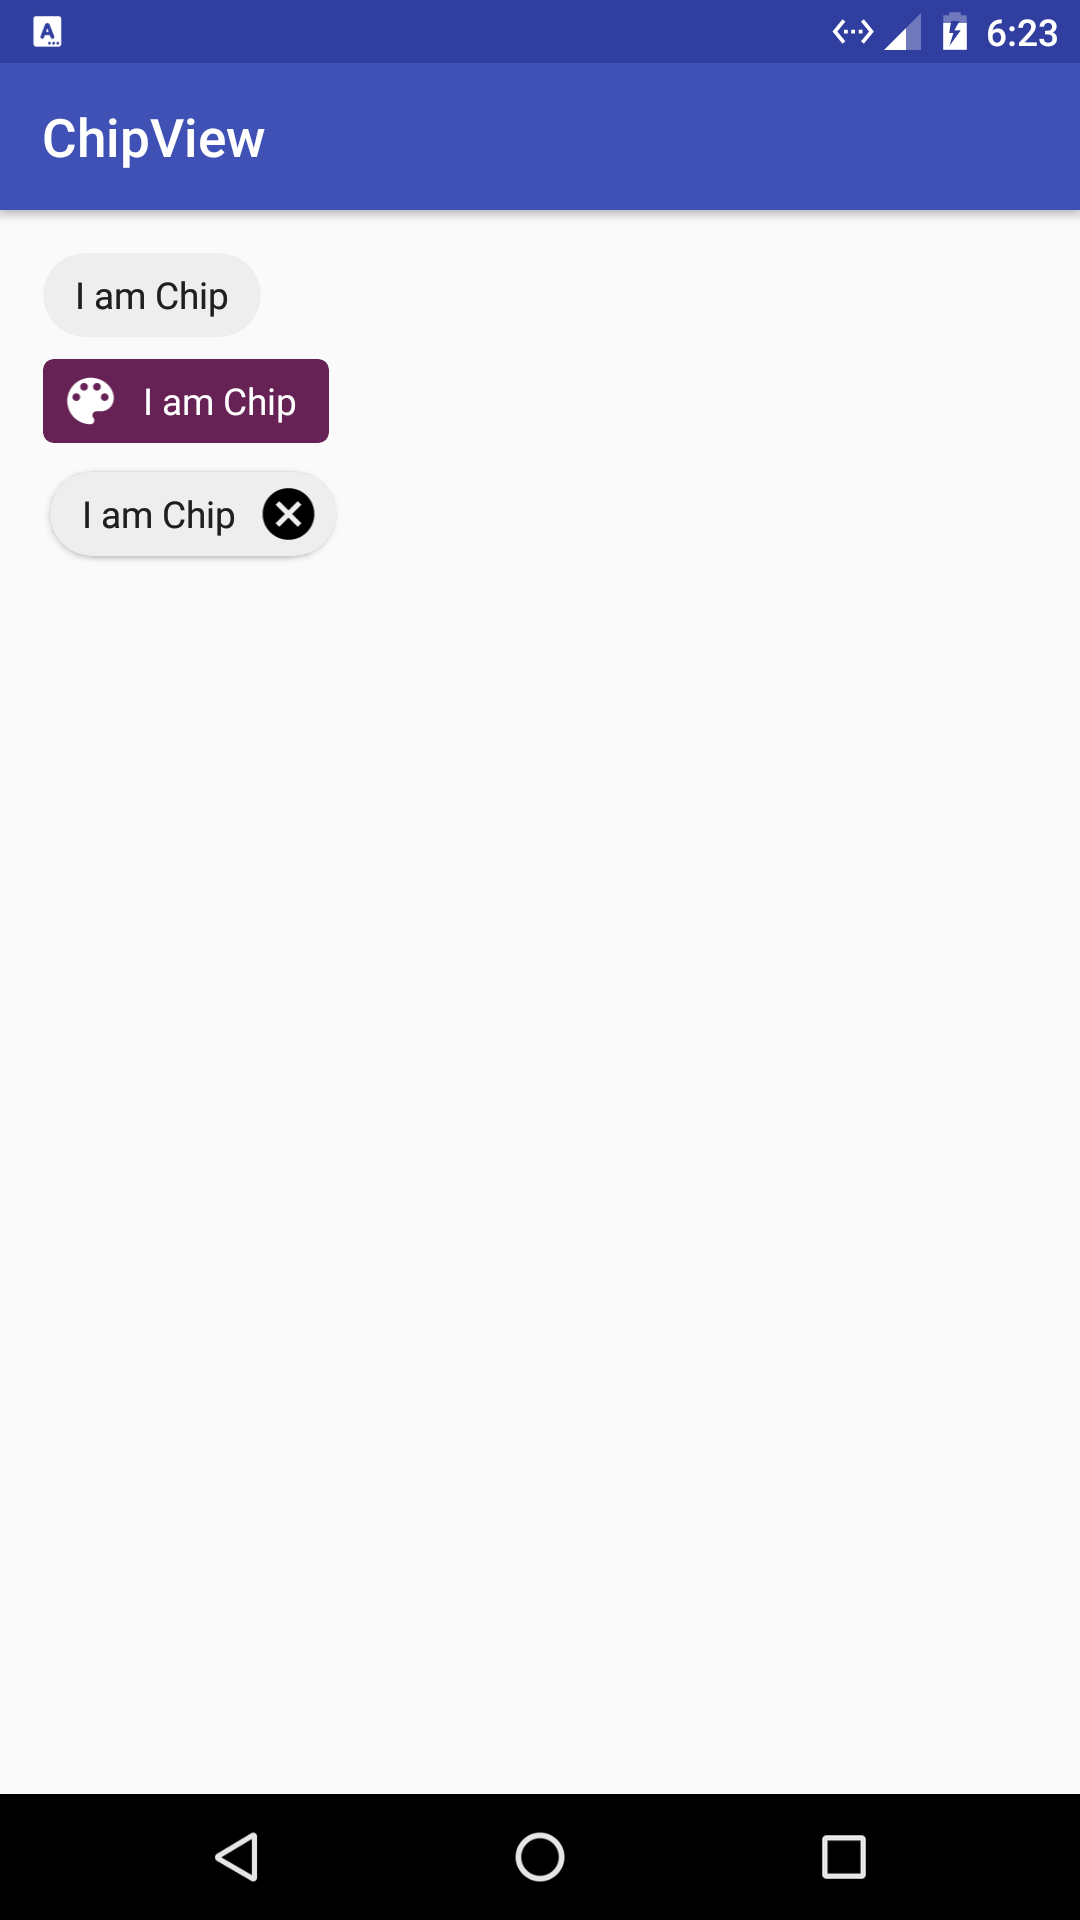
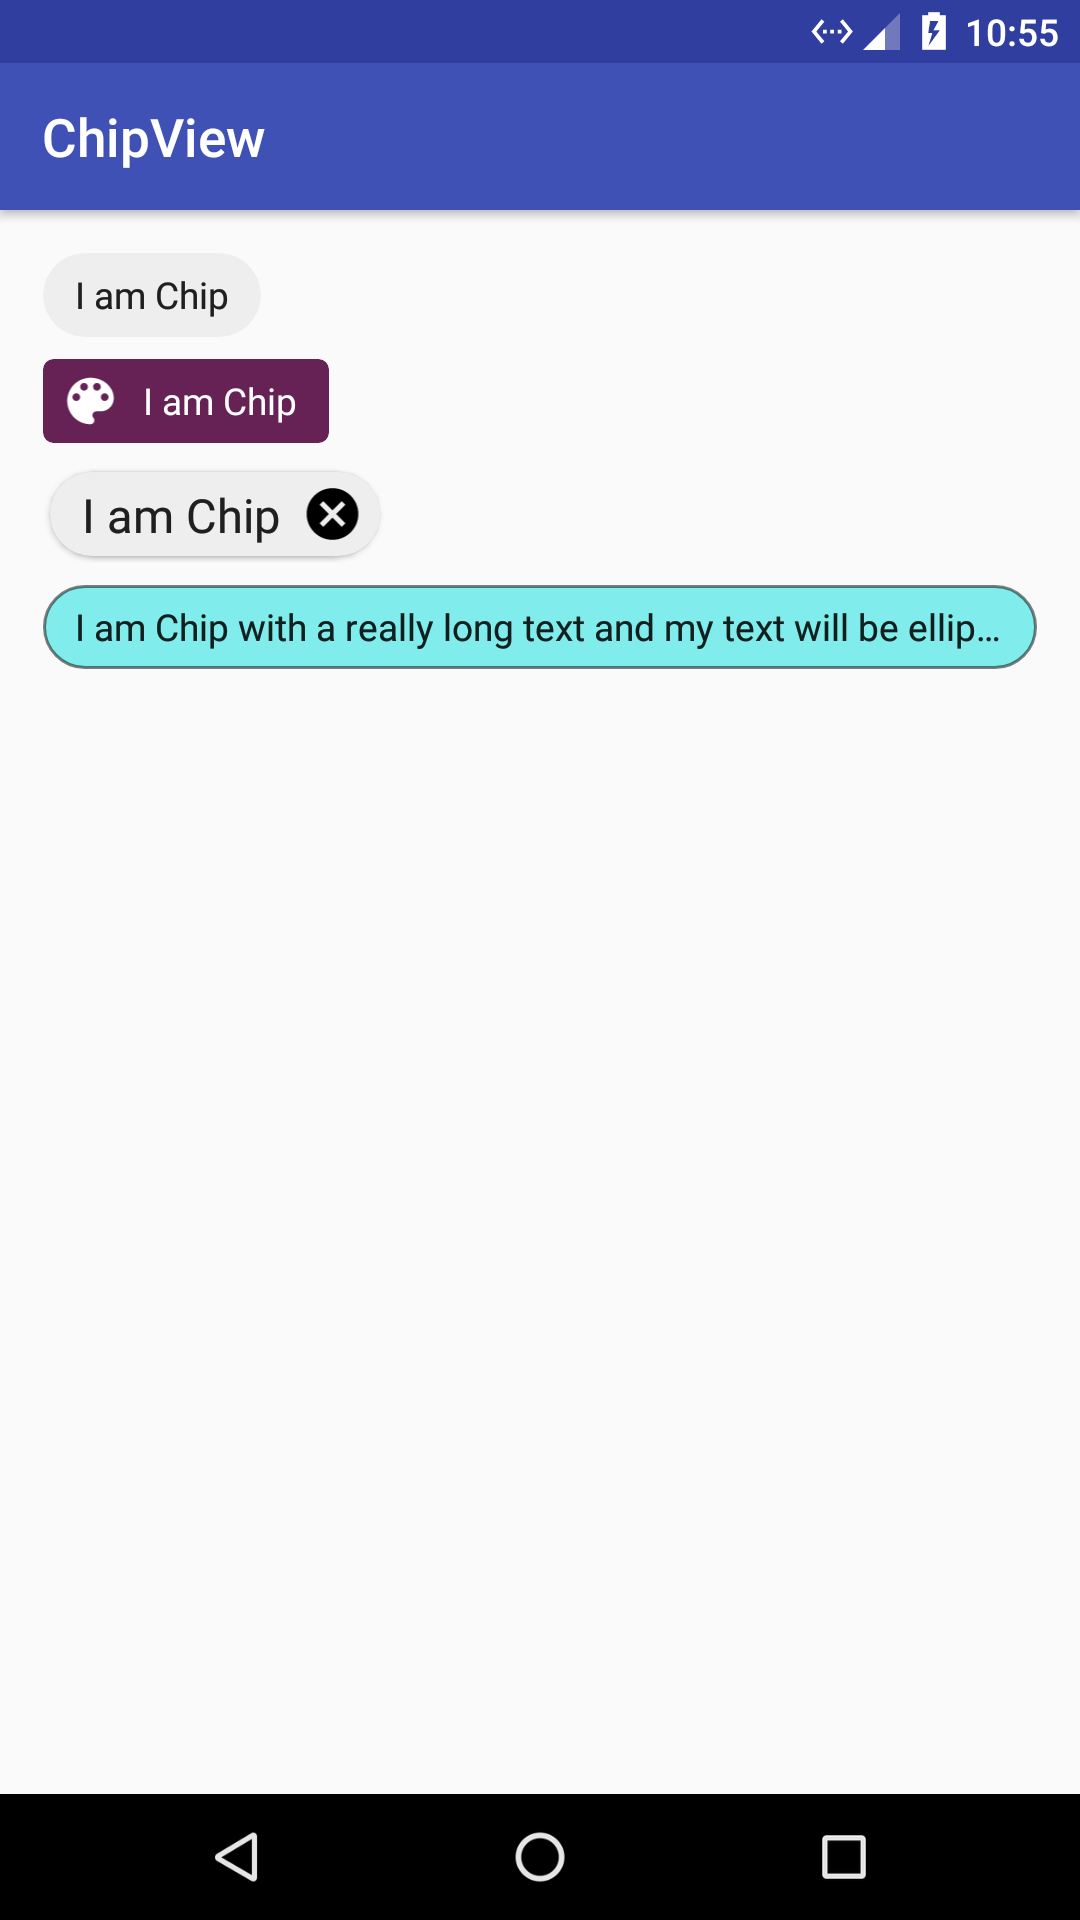
Allow textSize change. Improve clickable chip foreground. Update preview

Changed region(s): [[0.0306, 0.25, 0.9778, 0.375], [0.7639, 0.0, 0.9778, 0.0312], [0.0306, 0.0, 0.0611, 0.0312]]

diff --git a/library/src/main/kotlin/com/jahirfiquitiva/chip/ChipView.kt b/library/src/main/kotlin/com/jahirfiquitiva/chip/ChipView.kt
@@ -18,9 +18,12 @@ package com.jahirfiquitiva.chip
 import android.content.Context
 import android.content.res.ColorStateList
 import android.graphics.Bitmap
+import android.graphics.Color
+import android.graphics.PorterDuff
 import android.graphics.drawable.Drawable
 import android.graphics.drawable.GradientDrawable
 import android.graphics.drawable.Icon
+import android.graphics.drawable.RippleDrawable
 import android.os.Build
 import android.support.annotation.CallSuper
 import android.support.annotation.ColorInt
@@ -31,6 +34,7 @@ import android.support.annotation.StringRes
 import android.support.v4.content.ContextCompat
 import android.support.v7.widget.CardView
 import android.util.AttributeSet
+import android.util.TypedValue
 import android.view.LayoutInflater
 import android.view.View
 import android.widget.ImageView
@@ -53,6 +57,12 @@ open class ChipView : LinearLayout {
             textView?.text = value
         }
     
+    var textSize: Float
+        get() = textView?.textSize ?: 0.0F
+        set(value) {
+            textView?.textSize = value
+        }
+    
     var radius: Float
         get() = cardView?.radius ?: 0.0F
         set(value) {
@@ -60,8 +70,8 @@ open class ChipView : LinearLayout {
         }
     
     @ColorInt
-    var bgColor: Int = 0
-        private set(value) {
+    private var bgColor: Int = 0
+        set(value) {
             field = value
             internalSetBackground()
         }
@@ -104,6 +114,11 @@ open class ChipView : LinearLayout {
         val styles = context.obtainStyledAttributes(attrs, R.styleable.ChipView, 0, 0)
         try {
             text = styles.getString(R.styleable.ChipView_chipText) ?: ""
+            
+            val txtSize = styles.getDimensionPixelSize(R.styleable.ChipView_chipTextSize, 0)
+            if (txtSize > 0)
+                setTextSize(TypedValue.COMPLEX_UNIT_PX, txtSize.toFloat())
+            
             setTextColor(
                 styles.getColor(
                     R.styleable.ChipView_chipTextColor,
@@ -157,6 +172,12 @@ open class ChipView : LinearLayout {
     }
     
     @CallSuper
+    open fun setTextSize(unit: Int, size: Float) {
+        textSize = size
+        textView?.setTextSize(unit, size)
+    }
+    
+    @CallSuper
     open fun setIcon(@DrawableRes drawable: Int) {
         setIcon(ContextCompat.getDrawable(context, drawable))
     }
@@ -200,6 +221,17 @@ open class ChipView : LinearLayout {
         actionIconView?.setImageIcon(actionIcon)
     }
     
+    override fun getBackground(): Drawable? = cardView?.background
+    
+    @ColorInt
+    fun getBackgroundColor(): Int = bgColor
+    
+    @RequiresApi(Build.VERSION_CODES.LOLLIPOP)
+    override fun getBackgroundTintList(): ColorStateList? = cardView?.backgroundTintList
+    
+    @RequiresApi(Build.VERSION_CODES.LOLLIPOP)
+    override fun getBackgroundTintMode(): PorterDuff.Mode? = cardView?.backgroundTintMode
+    
     @CallSuper
     open fun setBackgroundColorFromRes(@ColorRes color: Int) {
         setBackgroundColor(ContextCompat.getColor(context, color))
@@ -227,15 +259,43 @@ open class ChipView : LinearLayout {
     }
     
     private fun internalSetBackground() {
-        if (strokeWidth > 0) {
-            cardView?.background = GradientDrawable().apply {
+        val fgResId: Int = try {
+            val attrs = intArrayOf(R.attr.selectableItemBackground)
+            val typedArray = context.obtainStyledAttributes(attrs)
+            val fgRes = typedArray?.getResourceId(0, 0) ?: 0
+            typedArray?.recycle()
+            fgRes
+        } catch (ignored: Exception) {
+            0
+        }
+        
+        val bgDrawable: Drawable? = if (strokeWidth > 0) {
+            GradientDrawable().apply {
                 shape = GradientDrawable.RECTANGLE
                 cornerRadii =
                     floatArrayOf(radius, radius, radius, radius, radius, radius, radius, radius)
                 setColor(bgColor)
                 setStroke(strokeWidth, strokeColor)
             }
-        } else cardView?.setCardBackgroundColor(bgColor)
+        } else cardView?.background
+        
+        @ColorInt
+        val fgColor: Int = if (bgColor.isColorDark()) bgColor.lighten() else bgColor.darken()
+        
+        val fgDrawable: Drawable? = when {
+            Build.VERSION.SDK_INT >= Build.VERSION_CODES.LOLLIPOP ->
+                RippleDrawable(ColorStateList.valueOf(fgColor), null, bgDrawable)
+            fgResId != 0 -> ContextCompat.getDrawable(context, fgResId)
+            else -> null
+        }
+        
+        if (strokeWidth > 0) {
+            cardView?.setCardBackgroundColor(Color.TRANSPARENT)
+            cardView?.background = bgDrawable
+        } else {
+            cardView?.setCardBackgroundColor(bgColor)
+        }
+        cardView?.foreground = fgDrawable
     }
     
     @CallSuper

diff --git a/library/src/main/kotlin/com/jahirfiquitiva/chip/Extensions.kt b/library/src/main/kotlin/com/jahirfiquitiva/chip/Extensions.kt
@@ -16,6 +16,14 @@
 package com.jahirfiquitiva.chip
 
 import android.content.res.Resources
+import android.graphics.Color
+import android.support.annotation.ColorInt
+import android.support.annotation.FloatRange
+
+/**
+ * Created by Allan Wang
+ * Taken from his awesome library: KAU (https://github.com/AllanWang/KAU/)
+ */
 
 internal inline val Float.dpToPx: Float
     get() = this * Resources.getSystem().displayMetrics.density
@@ -23,20 +31,26 @@ internal inline val Float.dpToPx: Float
 internal inline val Int.dpToPx: Int
     get() = toFloat().dpToPx.toInt()
 
-internal inline val Float.pxToDp: Float
-    get() = this / Resources.getSystem().displayMetrics.density
+internal fun Int.isColorDark(minDarkness: Float = 0.6F): Boolean =
+    ((0.299 * Color.red(this) + 0.587 * Color.green(this) + 0.114 * Color.blue(
+        this)) / 255.0) < minDarkness
 
-internal inline val Int.pxToDp: Int
-    get() = toFloat().pxToDp.toInt()
+@ColorInt
+internal fun Int.lighten(
+    @FloatRange(from = 0.0, to = 1.0)
+    factor: Float = 0.25F
+                        ): Int {
+    val (red, green, blue) = intArrayOf(Color.red(this), Color.green(this), Color.blue(this))
+        .map { (it * (1f - factor) + 255f * factor).toInt() }
+    return Color.argb(Color.alpha(this), red, green, blue)
+}
 
-internal inline val Float.dpToSp: Float
-    get() = this * Resources.getSystem().displayMetrics.scaledDensity
-
-internal inline val Int.dpToSp: Int
-    get() = toFloat().dpToSp.toInt()
-
-internal inline val Float.spToDp: Float
-    get() = this / Resources.getSystem().displayMetrics.scaledDensity
-
-internal inline val Int.spToDp: Int
-    get() = toFloat().spToDp.toInt()
+@ColorInt
+internal fun Int.darken(
+    @FloatRange(from = 0.0, to = 1.0)
+    factor: Float = 0.25F
+                       ): Int {
+    val (red, green, blue) = intArrayOf(Color.red(this), Color.green(this), Color.blue(this))
+        .map { (it * (1f - factor)).toInt() }
+    return Color.argb(Color.alpha(this), red, green, blue)
+}

diff --git a/app/src/main/kotlin/com/jahirfiquitiva/chipview/MainActivity.kt b/app/src/main/kotlin/com/jahirfiquitiva/chipview/MainActivity.kt
@@ -34,6 +34,10 @@ class MainActivity : AppCompatActivity() {
         findViewById<ChipView?>(R.id.action_chip)
     }
     
+    private val strokeChip: ChipView? by lazy {
+        findViewById<ChipView?>(R.id.stroke_chip)
+    }
+    
     override fun onCreate(savedInstanceState: Bundle?) {
         super.onCreate(savedInstanceState)
         setContentView(R.layout.activity_main)
@@ -44,6 +48,8 @@ class MainActivity : AppCompatActivity() {
         
         actionChip?.setOnClickListener { showToast("You pressed the chip with action icon") }
         actionChip?.setOnActionClickListener { showToast("You pressed the action icon") }
+        
+        strokeChip?.setOnClickListener { showToast("You pressed the stroked chip") }
     }
     
     private fun showToast(text: String) {
